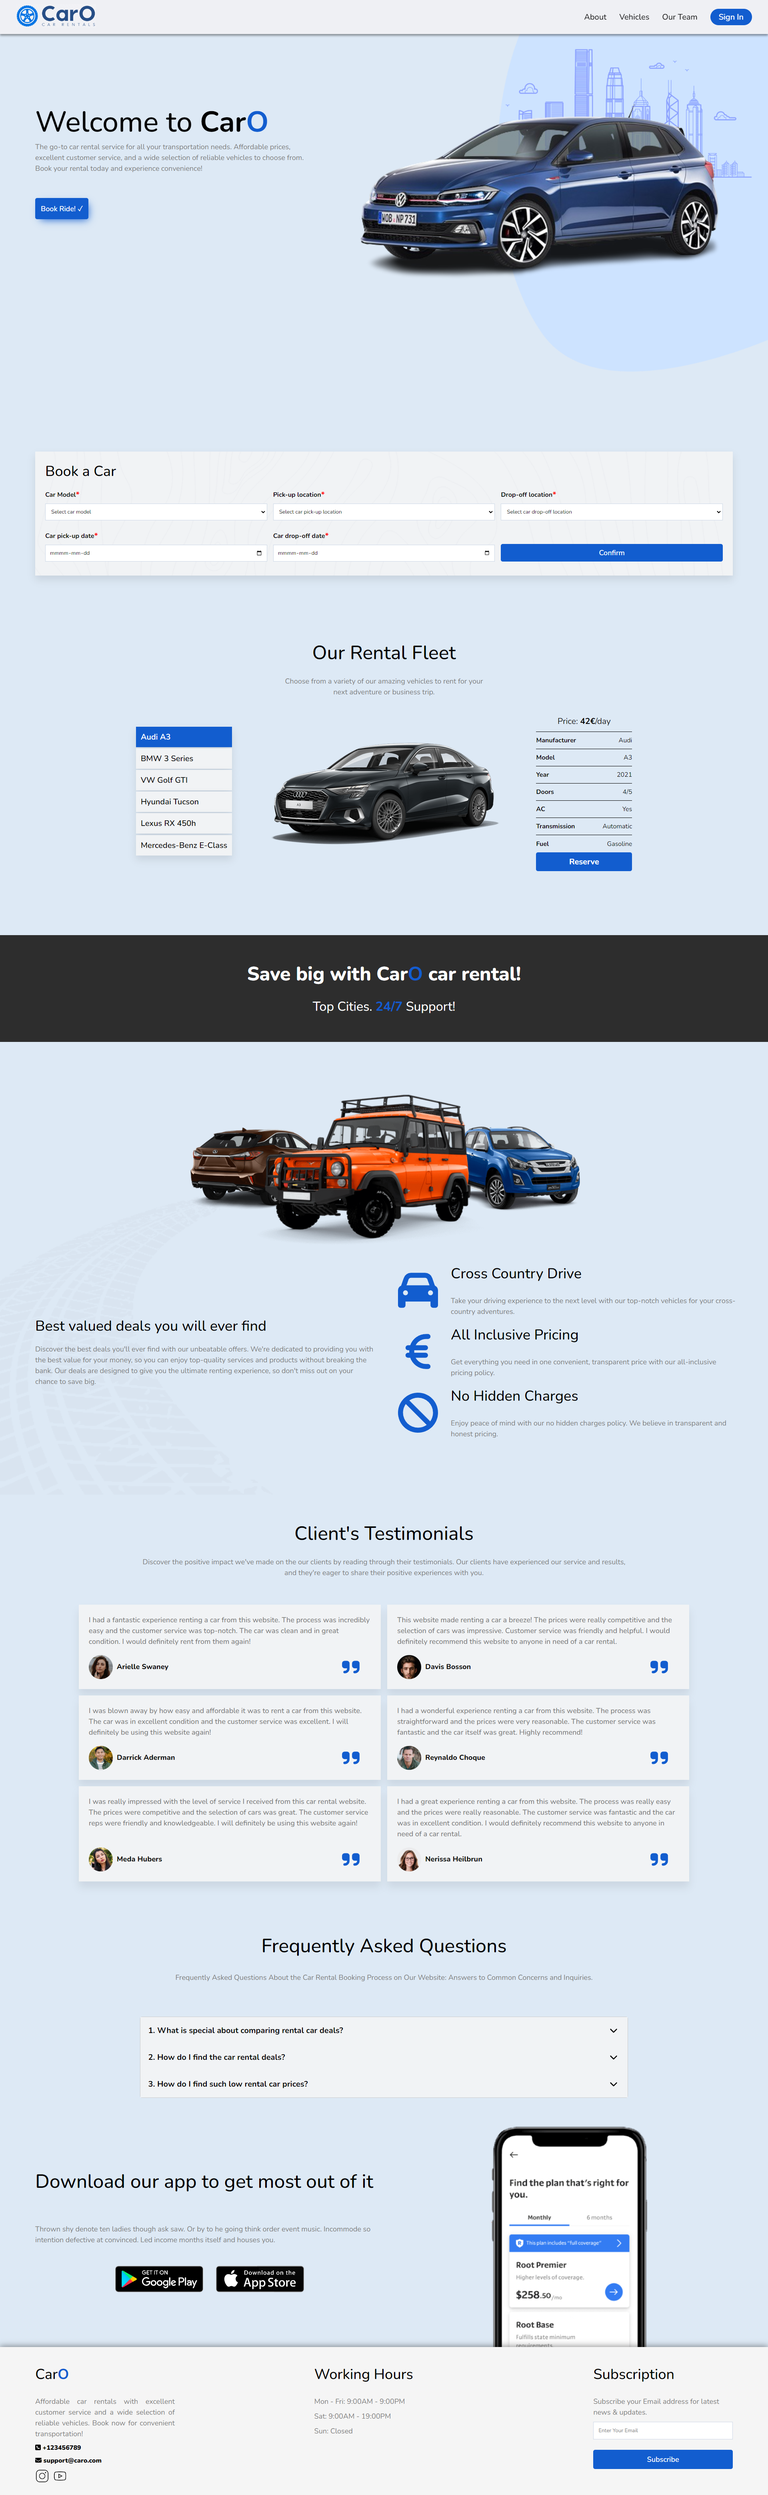
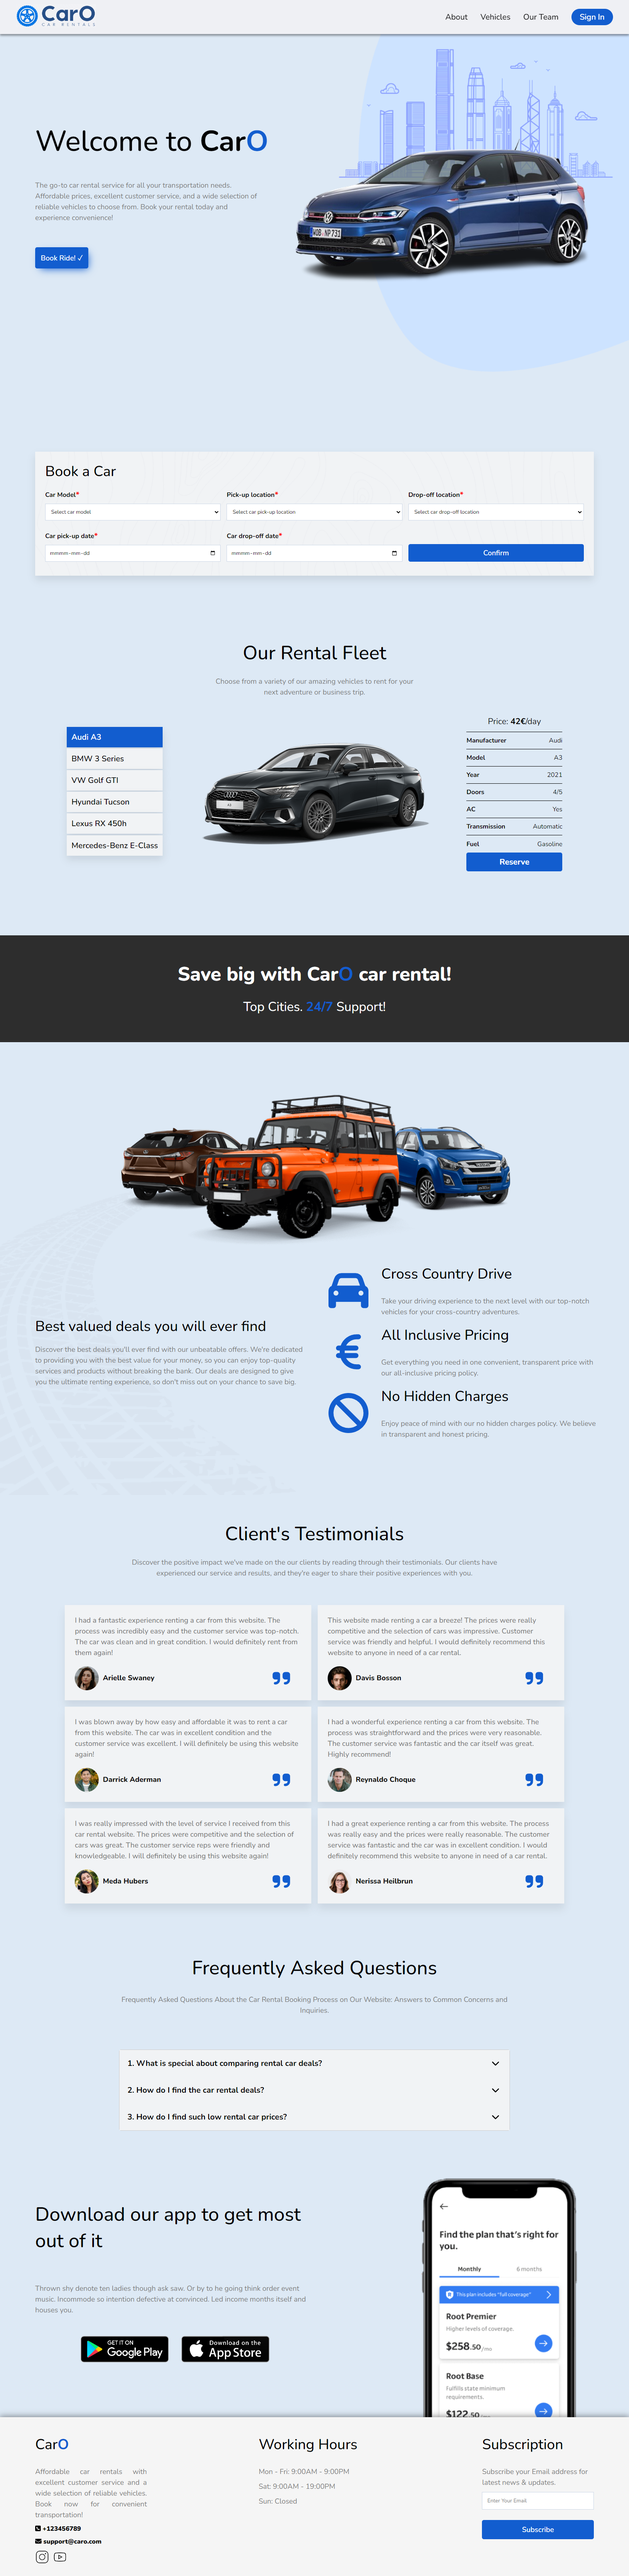
Minor fixes

diff --git a/src/styles/Hero/hero-style.css b/src/styles/Hero/hero-style.css
@@ -34,7 +34,7 @@
   z-index: 2;
 }
 .hero-block__content-title {
-  margin-bottom: 0;
+  margin: 3rem 0;
 }
 .hero-block__content-image {
   position: absolute;
@@ -93,7 +93,7 @@
     display: none;
   }
   .hero-block__content-title {
-    margin-bottom: 30px;
+    margin: 1rem 0 2rem;
   }
   .hero-block__content-description {
     width: 100%;
